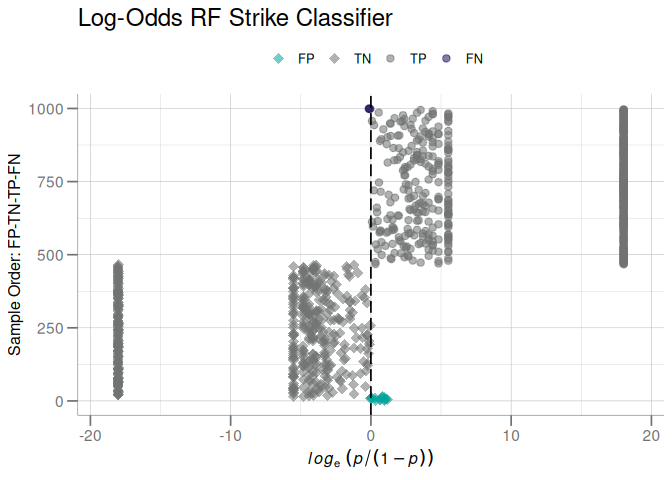
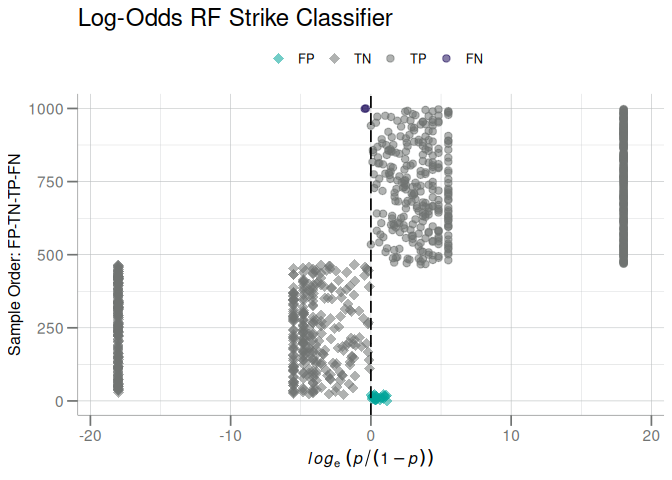
chore: re-render articles

Changed region(s): [[0.4062, 0.2188, 0.6875, 0.8438], [0.1562, 0.8125, 0.1875, 0.8438], [0.1562, 0.625, 0.1875, 0.6562]]

diff --git a/articles/baseball-strike-classifier.md b/articles/baseball-strike-classifier.md
@@ -139,9 +139,9 @@ get_gini(rf_model)
 #> # A tibble: 4 × 2
 #>   Feature          Gini_Importance
 #>   <chr>                      <dbl>
-#> 1 plate_location_z           7708.
-#> 2 plate_location_x           7379.
-#> 3 strikes                     672.
+#> 1 plate_location_z           7674.
+#> 2 plate_location_x           7398.
+#> 3 strikes                     768.
 #> 4 balls                       234.
 ```
 
@@ -163,27 +163,27 @@ summary(cmat) # evaluate performance
 #> 
 #>      Predicted
 #> Truth     0     1
-#>     0 16535   640
-#>     1    74 17101
+#>     0 16566   609
+#>     1    91 17084
 #> ── Performance Metrics (CI95%) ─────────────────────────────────────────────────
 #> 
 #> # A tibble: 10 × 5
 #>    metric              n estimate CI95_lower CI95_upper
 #>    <chr>           <int>    <dbl>      <dbl>      <dbl>
-#>  1 Sensitivity     17175   0.996      0.995      0.997 
-#>  2 Specificity     17175   0.963      0.960      0.966 
-#>  3 PPV (Precision) 17741   0.964      0.961      0.967 
-#>  4 NPV             16609   0.996      0.994      0.997 
-#>  5 Accuracy        34350   0.979      0.977      0.981 
-#>  6 Bal Accuracy    34350   0.979      0.977      0.981 
+#>  1 Sensitivity     17175   0.995      0.993      0.996 
+#>  2 Specificity     17175   0.965      0.961      0.968 
+#>  3 PPV (Precision) 17693   0.966      0.963      0.969 
+#>  4 NPV             16657   0.995      0.993      0.996 
+#>  5 Accuracy        34350   0.980      0.978      0.981 
+#>  6 Bal Accuracy    34350   0.980      0.978      0.981 
 #>  7 Prevalence      34350   0.5        0.494      0.506 
 #>  8 AUC             34350   0.999      0.999      0.999 
-#>  9 Brier Score     34350   0.0181     0.0165     0.0197
-#> 10 MCC                NA   0.959     NA         NA
+#>  9 Brier Score     34350   0.0176     0.0160     0.0191
+#> 10 MCC                NA   0.960     NA         NA
 #> ── Additional Statistics ───────────────────────────────────────────────────────
 #> 
 #> F_measure    G_mean    Wt_Acc 
-#>     0.980     0.979     0.987
+#>     0.980     0.980     0.987
 ```
 
 Model performance was surprisingly accurate. Stark contrast to my
@@ -210,16 +210,16 @@ dplyr::select(pitch_data2, all_of(feats), is_strike, strike_prob)
 #> # A tibble: 34,350 × 6
 #>    plate_location_x plate_location_z strikes balls is_strike strike_prob
 #>               <dbl>            <dbl>   <int> <int>     <int>       <dbl>
-#>  1            0.902            2.95        0     0         0       0.408
-#>  2            1.05             1.46        1     1         0       0.112
-#>  3            0.206            0.409       1     0         0       0    
-#>  4           -0.866            3.90        1     1         0       0.008
-#>  5            1.35             3.14        1     1         0       0.008
-#>  6           -0.232            1.19        0     0         0       0.016
-#>  7           -1.02             2.13        0     0         0       0.388
-#>  8           -0.724            1.71        0     0         0       0.688
-#>  9            1.51             2.54        2     2         0       0.02 
-#> 10           -0.015            0.168       0     0         0       0.012
+#>  1            0.972            2.03        0     1         0       0.348
+#>  2            0.979            3.01        1     0         0       0.212
+#>  3           -0.995            1.30        1     0         0       0.068
+#>  4            1.35             2.61        0     1         0       0    
+#>  5            1.09             3.81        2     3         0       0.02 
+#>  6            0.379           -0.734       2     1         0       0    
+#>  7            1.11             2.76        0     2         0       0.104
+#>  8            1.53             3.00        0     0         0       0.016
+#>  9           -1.62             1.52        1     1         0       0.004
+#> 10            0.778            2.12        0     0         0       0.712
 #> # ℹ 34,340 more rows
 ```
 

diff --git a/articles/decision-boundaries.md b/articles/decision-boundaries.md
@@ -61,7 +61,7 @@ sim_data1
 #>         "disease"))
 #>     df
 #> }
-#> <bytecode: 0x564b17b242c8>
+#> <bytecode: 0x55c55096e328>
 
 # simulated data set 1
 sim_data2
@@ -76,7 +76,7 @@ sim_data2
 #>     df$y <- factor(rep(c("control", "disease"), each = n))
 #>     df
 #> }
-#> <bytecode: 0x564b1dfba4d8>
+#> <bytecode: 0x55c556e647a8>
 
 # predicting nearest neighbors from scratch
 predict_bivariate_knn
@@ -119,7 +119,7 @@ predict_bivariate_knn
 #>         0.5, class_names[2L], class_names[1L]))
 #>     data.frame(class = classes, prob = neighbor_prop_disease)
 #> }
-#> <bytecode: 0x564b1b858b80>
+#> <bytecode: 0x55c5546a08b0>
 
 # plotting routine for decision boundary
 plot_decision_boundary
@@ -160,7 +160,7 @@ plot_decision_boundary
 #>         "disease", col_d, col_c))
 #>     invisible(data)
 #> }
-#> <bytecode: 0x564b1a45ddb0>
+#> <bytecode: 0x55c5532a5ae0>
 ```
 
 ----------------------------------------------------------------------

diff --git a/articles/iptw.md b/articles/iptw.md
@@ -80,11 +80,13 @@ $$
 
 $$
 \text{protocol} \sim age\ +\ ...\ +\ \epsilon
-$$ \* invert the probability - $\uparrow$
-$P(protocol = protocol_k | X)$ down weighted - $\downarrow$
-$P(protocol = protocol_k | X)$ up weighted \* aggregate effect
-$\rightarrow$ create pseudo-population that de-couples correlation
-*protocol* $\sim$ *age*
+$$
+
+- invert the probability
+  - $\uparrow$ $P(protocol = protocol_k | X)$ down weighted
+  - $\downarrow$ $P(protocol = protocol_k | X)$ up weighted
+- aggregate effect $\rightarrow$ create pseudo-population that
+  de-couples correlation *protocol* $\sim$ *age*
 
 ----------------------------------------------------------------------
 

diff --git a/articles/mixed-effects-models.md b/articles/mixed-effects-models.md
@@ -293,7 +293,7 @@ summary(fit1)
 > Random effects:
 >  Formula: ~1 | pid
 >         (Intercept) Residual
-> StdDev:  0.03568677 244.4632
+> StdDev:  0.03568671 244.4632
 > 
 > Fixed effects:  yij ~ time 
 >                Value Std.Error  DF  t-value p-value
